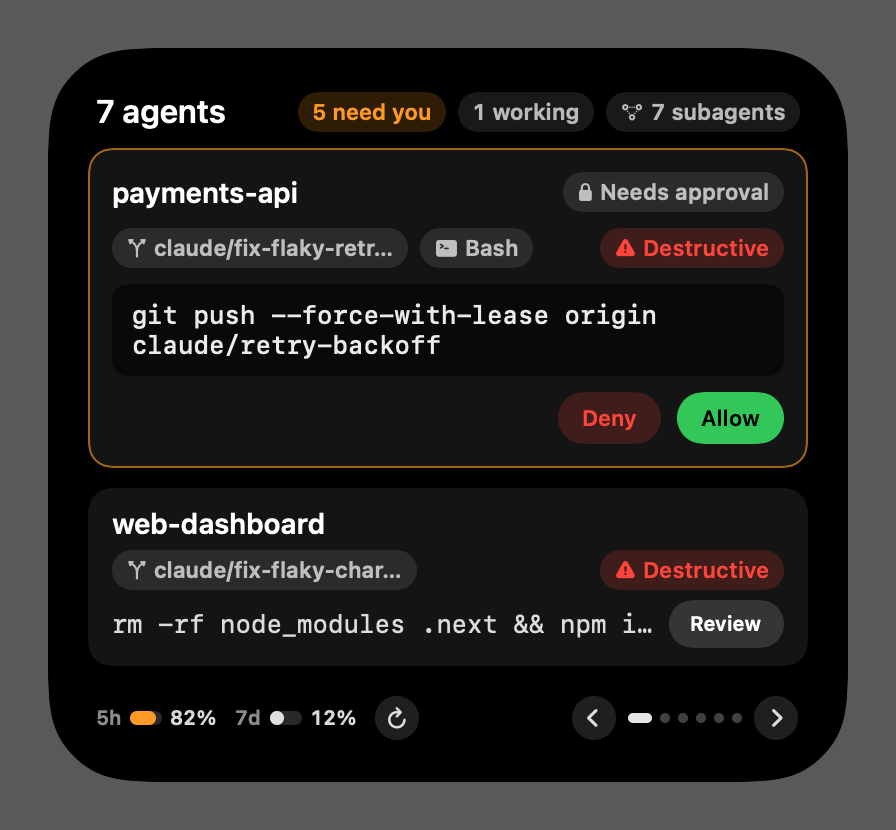
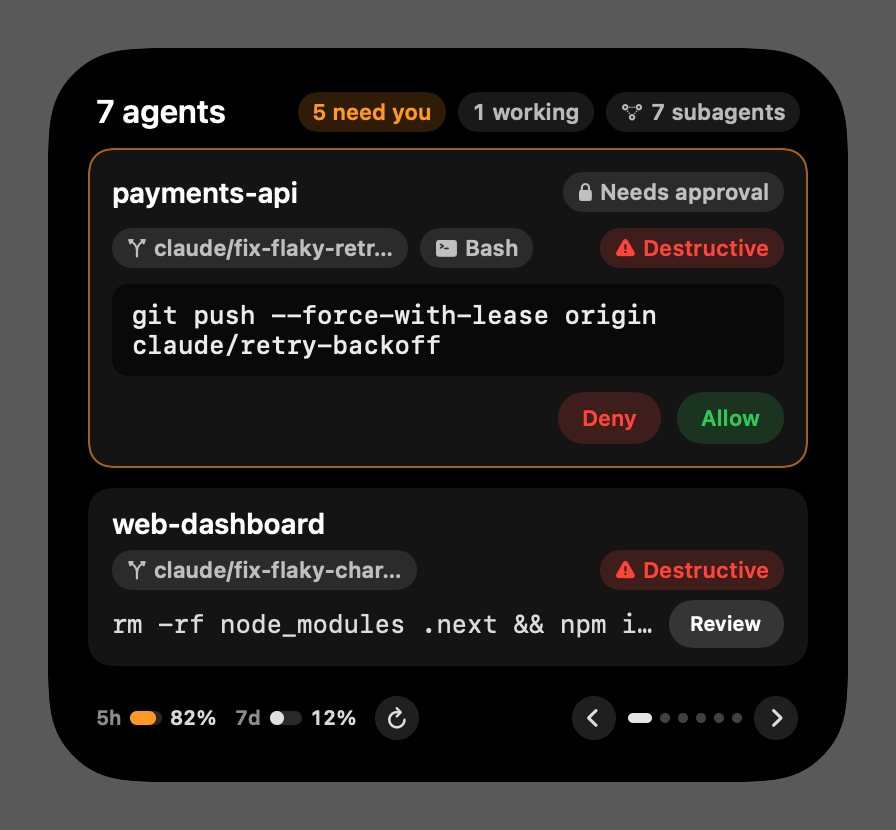
Deny and Allow share one tinted background (red / green on the same 18% wash)

Changed region(s): [[0.75, 0.4518, 0.875, 0.5422]]

diff --git a/Shared/IslandViews.swift b/Shared/IslandViews.swift
@@ -500,8 +500,8 @@ struct PromptPanel: View {
         .background(RoundedRectangle(cornerRadius: Island.innerRadius, style: .continuous).fill(Color.black.opacity(0.55)))
     }
 
-    /// The only place an approval is answered. Positive is green, negative is red, as users expect: red-tinted Deny on the left, Allow on
-    /// the right (filled green). A destructive request keeps those colours (the red "Destructive" pill carries the
+    /// The only place an approval is answered. Positive is green, negative is red, as users expect: red-tinted Deny on the left, green-tinted Allow on
+    /// the right, on the same wash. A destructive request keeps those colours (the red "Destructive" pill carries the
     /// danger) but makes Allow a two-step: "Allow", then "Confirm" for a few seconds. "Allow for session" is never offered for it.
     @ViewBuilder private var actions: some View {
         HStack(spacing: 8) {
@@ -544,8 +544,8 @@ struct PromptPanel: View {
                 }
                 .accessibilityLabel("Deny \(Island.target(p.tool, p.text))")
                 Button(intent: AllowIntent(sessionId: p.sessionId, requestId: p.requestId)) {
-                    // Same solid green in every state; only the word changes when a destructive Allow is armed.
-                    Pill(title: p.confirming ? "Confirm" : "Allow", tint: Island.allow, filled: true, height: 26, stretch: false)
+                    // Same wash as Deny in every state (red and green on the same 18 % background); only the word changes when a destructive Allow is armed.
+                    Pill(title: p.confirming ? "Confirm" : "Allow", tint: Island.allow, wash: true, height: 26, stretch: false)
                 }
                 .accessibilityLabel(
                     p.confirming
